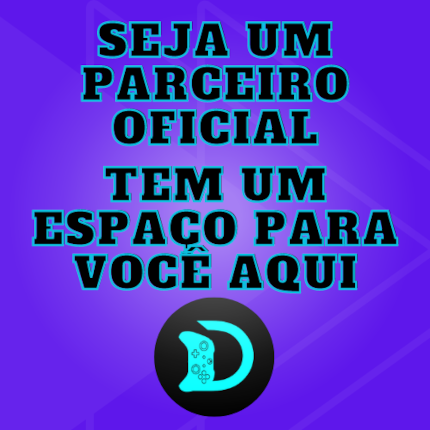
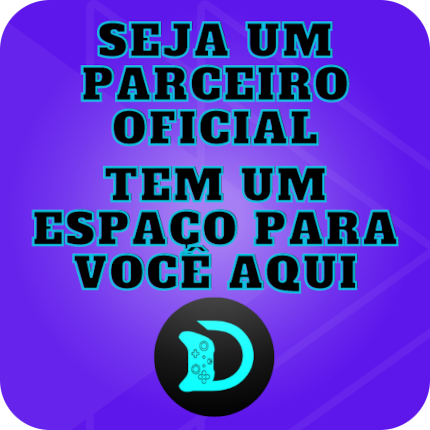
alterando detalhes das imagens

diff --git a/index.html b/index.html
@@ -17,7 +17,10 @@
         <a href="#">Lojinha</a>
         <a href="#">Contatos</a>
         <div class="patrocinadores">
-        <img class="anuncio" src="Imagens/capa5.png" alt="patrocinador">
+          <picture>
+            <source media="(max-width:800px)" srcset="Imagens/capa-pq.png" type="image/png">            
+          <img class="anuncio" src="Imagens/capa5.png" alt="patrocinador">
+          </picture>
         </div>
     </nav>
 
